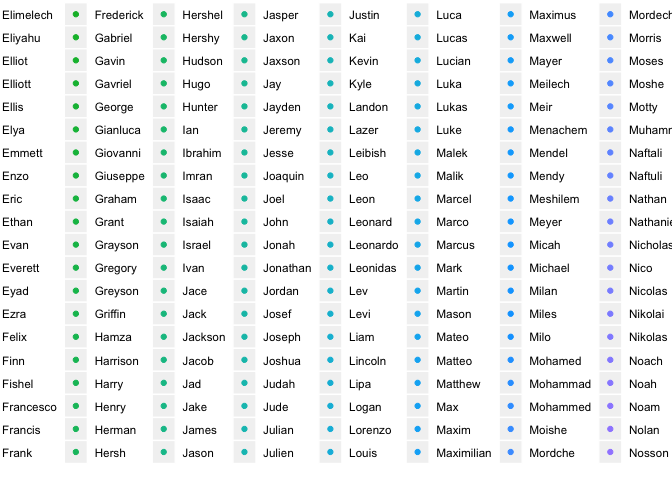
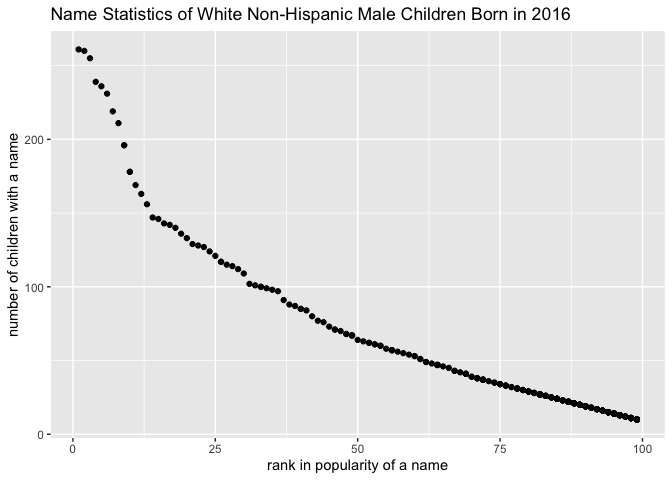
update data input file and knit RMD file

diff --git a/hw2.md b/hw2.md
@@ -6,7 +6,7 @@ Mengjia Lyu
 ## Problem 1
 
 ``` r
-trash_data = read_excel("./data/HealthyHarborWaterWheelTotals2018-7-28.xlsx", sheet = "Mr. Trash Wheel", range = cell_cols("A:N"), 
+trash_data = read_excel("./data/Trash-Wheel-Collection-Totals-8-6-19.xlsx", sheet = "Mr. Trash Wheel", range = cell_cols("A:N"), 
                         col_names = TRUE, skip = 1) %>%
                         janitor::clean_names() %>%
                         na.omit()
@@ -19,12 +19,12 @@ trash_data$sports_balls = as.integer(round(trash_data$sports_balls))
 
 ``` r
 # read and clean precipitation data for 2017 and 2018
-precip_data_2017 = read_excel("./data/HealthyHarborWaterWheelTotals2018-7-28.xlsx", sheet = "2017 Precipitation", col_names = TRUE, skip = 1) %>%
+precip_data_2017 = read_excel("./data/Trash-Wheel-Collection-Totals-8-6-19.xlsx", sheet = "2017 Precipitation", col_names = TRUE, skip = 1) %>%
                               janitor::clean_names() %>%
                               na.omit() %>%
                               mutate(year = 2017)
  
-precip_data_2018 = read_excel("./data/HealthyHarborWaterWheelTotals2018-7-28.xlsx", sheet = "2018 Precipitation", col_names = TRUE, skip = 1) %>%
+precip_data_2018 = read_excel("./data/Trash-Wheel-Collection-Totals-8-6-19.xlsx", sheet = "2018 Precipitation", col_names = TRUE, skip = 1) %>%
                               janitor::clean_names() %>%
                               na.omit() %>%
                               mutate(year = 2018)
@@ -38,14 +38,14 @@ precip_data = full_join(precip_data_2017, precip_data_2018, by = NULL) %>%
 
 ## Comments
 
-The number of observations in the Mr. Trash Wheel dataset is 285. The
-number of observations in the precipitation dataset is 19. Key variables
-in the Mr. Trash Wheel dataset include dumpster, month, year, date,
+The number of observations in the Mr. Trash Wheel dataset is 344. The
+number of observations in the precipitation dataset is 24. Key variables
+in the Mr. Trash Wheel dataset include **dumpster, month, year, date,
 weight\_tons, volume\_cubic\_yards, plastic\_bottles, polystyrene,
 cigarette\_butts, glass\_bottles, grocery\_bags, chip\_bags,
-sports\_balls, homes\_powered. Key variables in the precipitation
-dataset include month, total, year. Total precipitation in 2018 is 23.5.
-The median number of sports balls in a dumpster in 2017 is
+sports\_balls, homes\_powered**. Key variables in the precipitation
+dataset include **month, total, year**. Total precipitation in 2018 is
+70.33. The median number of sports balls in a dumpster in 2017 is
 8.
 
 ## Problem 2
@@ -134,31 +134,34 @@ snp_pols_unemploy_data =
 
 ## Comments
 
-**pols\_month\_data** contains 822 observations of 7 variables related
+Dataset *pols\_month\_data* contains observations of 7 variables related
 to the number of senators, governors and representatives who are
-democratic or republican at any given time. **snp\_data** contains 787
+democratic or republican at any given time. Dataset *snp\_data* contains
 observations of the date and the closing values of the Standard & Poor’s
-stock index on the associated date. **unemployment\_tidy\_data** and
-**unemployment\_data** contains 68 observations of the percentage of
-unemployment in each month of the associated year. **snp\_pols\_data**
-contains the observations from both **pols\_month\_data** and
-**snp\_data**. **snp\_pols\_unemploy\_data** contains the observations
-from all of **pol\_month\_data**, **snp\_data** and
-**unemployment\_tidy\_data**.
+stock index on the associated date. Dataset *unemployment\_data*
+contains observations of the percentage of unemployment in each month of
+the associated year. Dataset *unemployment\_tidy\_data* is the
+lengthened and tidied version of dataset *unemployment\_data*. Dataset
+*snp\_pols\_data* contains the observations from both dataset
+*pols\_month\_data* and dataset *snp\_data*.
 
-The resulting dataset has 822 rows and 11 columns. Range of years is
-from 1947 to 2015. Names of key variables include year, month, gov\_gop,
-sen\_gop, rep\_gop, gov\_dem, sen\_dem, rep\_dem, president, close,
-percentage\_of\_unemployment.
+The **resulting dataset** *snp\_pols\_unemploy\_data* contains the
+observations from all of dataset *pol\_month\_data*, dataset *snp\_data*
+and dataset *unemployment\_tidy\_data*. It has 822 rows and 11 columns.
+Range of years is from 1947 to 2015. Names of key variables include
+year, month, gov\_gop, sen\_gop, rep\_gop, gov\_dem, sen\_dem, rep\_dem,
+president, close, percentage\_of\_unemployment.
 
 ## Problem 3
 
 ``` r
-library(tools)
+#library(tools)
 baby_names_data = read_csv("./data/Popular_Baby_Names.csv") %>%
                   janitor::clean_names() %>%
                   mutate(gender = str_replace(gender, "FEMALE", "Female")) %>%
-                  mutate(gender = str_replace(gender, "MALE", "Male"))
+                  mutate(gender = str_replace(gender, "MALE", "Male")) %>%
+                  mutate(childs_first_name = str_to_lower(childs_first_name)) %>%
+                  mutate(ethnicity = str_to_lower(ethnicity))  
 ```
 
     ## Parsed with column specification:
@@ -172,13 +175,10 @@ baby_names_data = read_csv("./data/Popular_Baby_Names.csv") %>%
     ## )
 
 ``` r
-# change names to proper format
-baby_names_data$childs_first_name = toTitleCase(tolower(baby_names_data$childs_first_name))
-
 # change ethnicity to proper format
-baby_names_data$ethnicity = str_replace_all(baby_names_data$ethnicity, "PACI$", "PACIFIC ISLANDER")
-baby_names_data$ethnicity = str_replace_all(baby_names_data$ethnicity, "HISP$", "HISPANIC")
-baby_names_data$ethnicity = toTitleCase(tolower(baby_names_data$ethnicity))
+baby_names_data$ethnicity = str_replace_all(baby_names_data$ethnicity, "paci$", "pacific islander")
+baby_names_data$ethnicity = str_replace_all(baby_names_data$ethnicity, "hisp$", "hispanic")
+
 
 # remove duplicate rows
 distinct(baby_names_data)                                                   
@@ -187,16 +187,16 @@ distinct(baby_names_data)
     ## # A tibble: 12,181 x 6
     ##    year_of_birth gender ethnicity              childs_first_na… count  rank
     ##            <dbl> <chr>  <chr>                  <chr>            <dbl> <dbl>
-    ##  1          2016 Female Asian and Pacific Isl… Olivia             172     1
-    ##  2          2016 Female Asian and Pacific Isl… Chloe              112     2
-    ##  3          2016 Female Asian and Pacific Isl… Sophia             104     3
-    ##  4          2016 Female Asian and Pacific Isl… Emily               99     4
-    ##  5          2016 Female Asian and Pacific Isl… Emma                99     4
-    ##  6          2016 Female Asian and Pacific Isl… Mia                 79     5
-    ##  7          2016 Female Asian and Pacific Isl… Charlotte           59     6
-    ##  8          2016 Female Asian and Pacific Isl… Sarah               57     7
-    ##  9          2016 Female Asian and Pacific Isl… Isabella            56     8
-    ## 10          2016 Female Asian and Pacific Isl… Hannah              56     8
+    ##  1          2016 Female asian and pacific isl… olivia             172     1
+    ##  2          2016 Female asian and pacific isl… chloe              112     2
+    ##  3          2016 Female asian and pacific isl… sophia             104     3
+    ##  4          2016 Female asian and pacific isl… emily               99     4
+    ##  5          2016 Female asian and pacific isl… emma                99     4
+    ##  6          2016 Female asian and pacific isl… mia                 79     5
+    ##  7          2016 Female asian and pacific isl… charlotte           59     6
+    ##  8          2016 Female asian and pacific isl… sarah               57     7
+    ##  9          2016 Female asian and pacific isl… isabella            56     8
+    ## 10          2016 Female asian and pacific isl… hannah              56     8
     ## # … with 12,171 more rows
 
 ## Plotting
@@ -204,7 +204,7 @@ distinct(baby_names_data)
 ``` r
 library(arsenal)
 
-olivia_data = baby_names_data[which(baby_names_data$childs_first_name == "Olivia"), ] %>%
+olivia_data = baby_names_data[which(baby_names_data$childs_first_name == "olivia"), ] %>%
               select(-gender) %>%
               select(-childs_first_name) %>%
               select(-count) %>%
@@ -223,22 +223,25 @@ knitr::kable(olivia_tidy_data)
 
 | ethnicity                  | 2016 | 2015 | 2014 | 2013 | 2012 | 2011 |
 | :------------------------- | ---: | ---: | ---: | ---: | ---: | ---: |
-| Asian and Pacific Islander |    1 |    1 |    1 |    3 |    3 |    4 |
-| Black Non Hispanic         |    8 |    4 |    8 |    6 |    8 |   10 |
-| Hispanic                   |   13 |   16 |   16 |   22 |   22 |   18 |
-| White Non Hispanic         |    1 |    1 |    1 |    1 |    4 |    2 |
+| asian and pacific islander |    1 |    1 |    1 |    3 |    3 |    4 |
+| black non hispanic         |    8 |    4 |    8 |    6 |    8 |   10 |
+| hispanic                   |   13 |   16 |   16 |   22 |   22 |   18 |
+| white non hispanic         |    1 |    1 |    1 |    1 |    4 |    2 |
 
 ``` r
 # most popular name among male children over time
 most_ppl_male_name_data = baby_names_data[which(baby_names_data$gender == "Male" &
-                                                baby_names_data$ethnicity == "White Non Hispanic" &
+                                                baby_names_data$ethnicity == "white non hispanic" &
                                                 baby_names_data$year_of_birth == 2016), ] %>%
                                           select(-year_of_birth) %>%
                                           select(-gender) %>%
                                           select(-ethnicity)
                                           
 ## scatterplot
-ggplot(most_ppl_male_name_data, aes(x = rank, y = count)) + geom_point(aes(color = childs_first_name))
+ggplot(most_ppl_male_name_data, aes(x = rank, y = count)) + geom_point() + 
+       labs(title = "Name Statistics of White Non-Hispanic Male Children Born in 2016",
+            x = "rank in popularity of a name",
+            y = "number of children with a name")
 ```
 
 ![](hw2_files/figure-gfm/unnamed-chunk-4-1.png)<!-- -->
